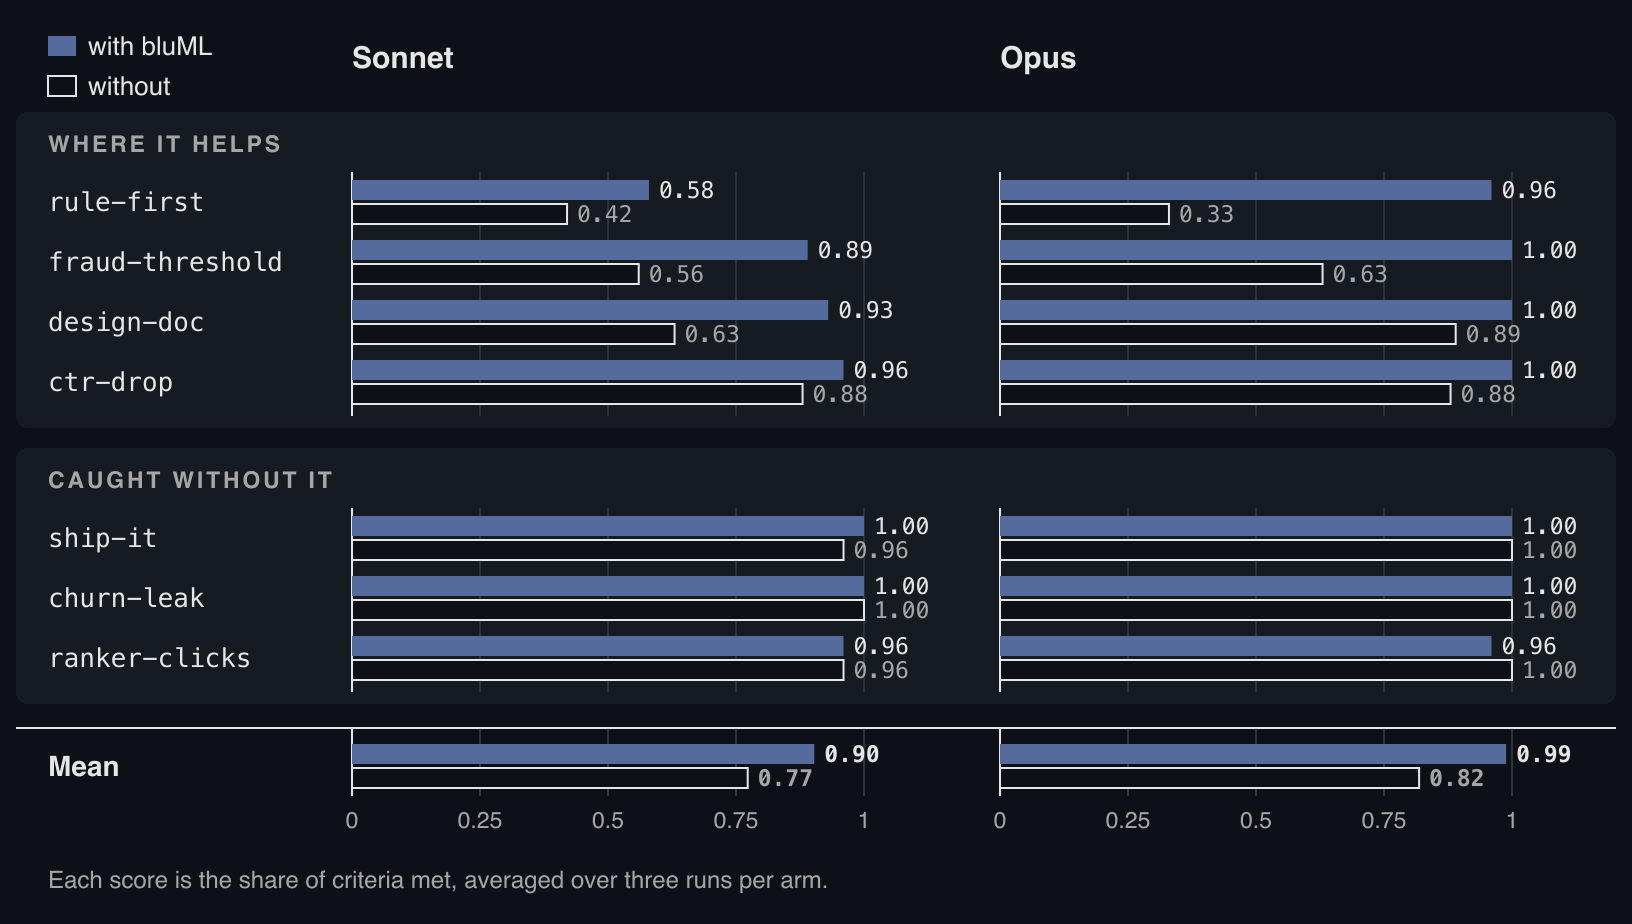
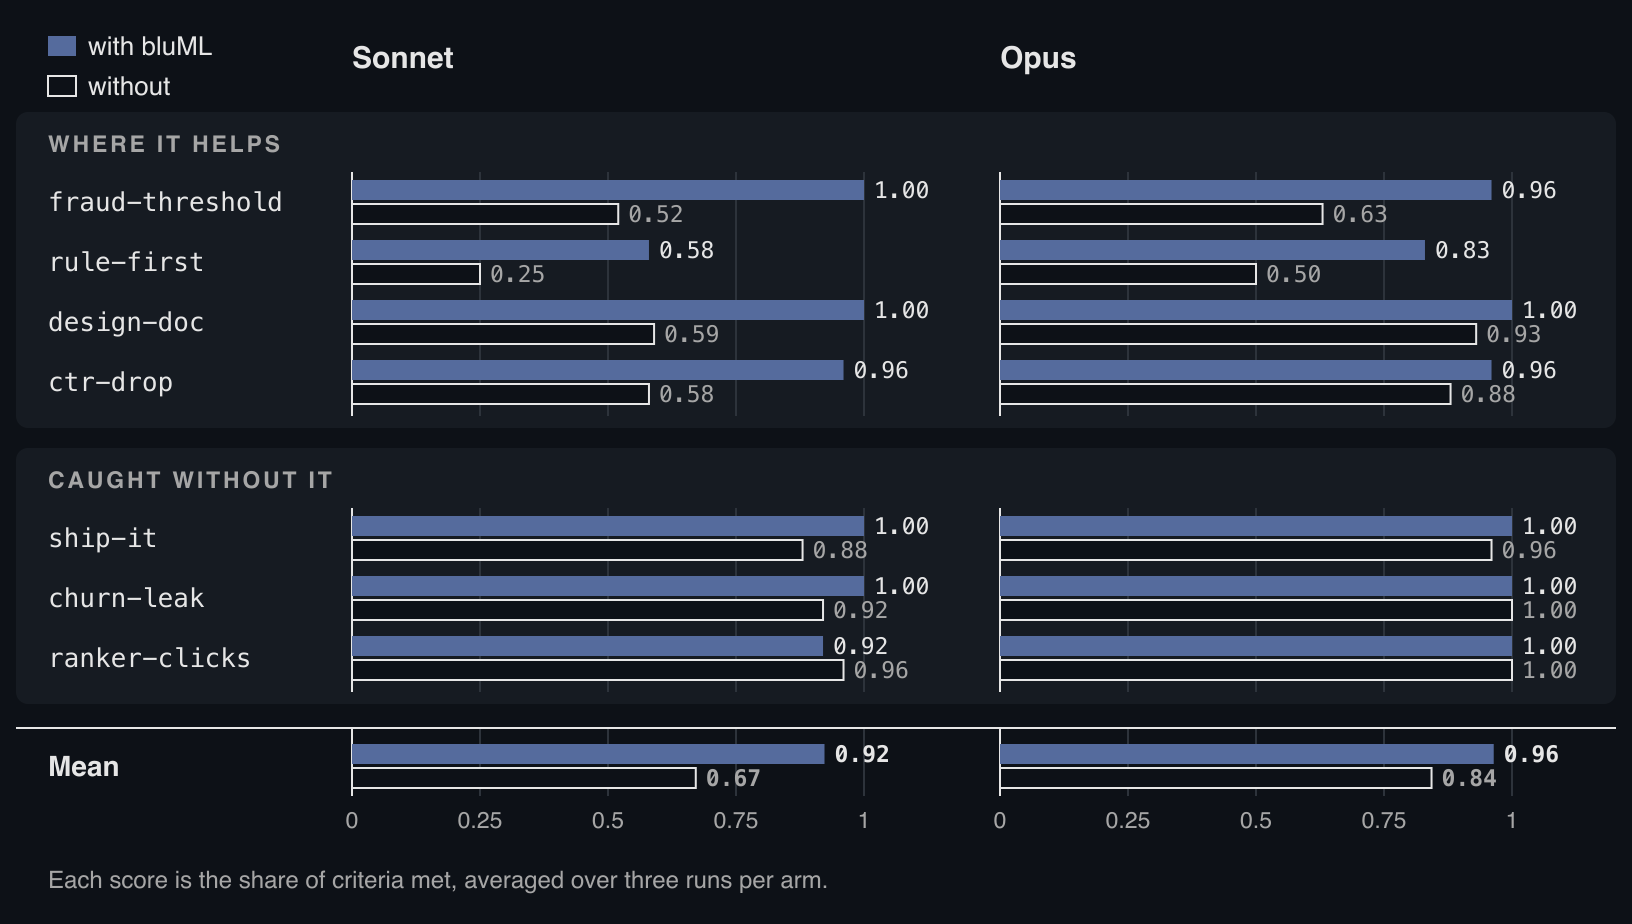
Report the evals on 0.2.0 and name the ranker's feedback loop in framing-models, as version 0.2.1

diff --git a/docs/evals.py b/docs/evals.py
@@ -27,13 +27,13 @@ MONO = "ui-monospace, SFMono-Regular, Menlo, Consolas, monospace"
 # %% The scores: the weighted share of criteria met, averaged over three runs per arm (evals/README.md, Results)
 MODELS = ("Sonnet", "Opus")
 SCORES = {  # case: (Sonnet with, without, Opus with, without)
-    "design-doc": (0.93, 0.63, 1.00, 0.89),
-    "rule-first": (0.58, 0.42, 0.96, 0.33),
-    "churn-leak": (1.00, 1.00, 1.00, 1.00),
-    "fraud-threshold": (0.89, 0.56, 1.00, 0.63),
-    "ranker-clicks": (0.96, 0.96, 0.96, 1.00),
-    "ship-it": (1.00, 0.96, 1.00, 1.00),
-    "ctr-drop": (0.96, 0.88, 1.00, 0.88),
+    "design-doc": (1.00, 0.59, 1.00, 0.93),
+    "rule-first": (0.58, 0.25, 0.83, 0.50),
+    "churn-leak": (1.00, 0.92, 1.00, 1.00),
+    "fraud-threshold": (1.00, 0.52, 0.96, 0.63),
+    "ranker-clicks": (0.92, 0.96, 1.00, 1.00),
+    "ship-it": (1.00, 0.88, 1.00, 0.96),
+    "ctr-drop": (0.96, 0.58, 0.96, 0.88),
 }
 
 
@@ -47,8 +47,8 @@ def gain(case):
     return sum(score(m, case, "with") - score(m, case, "without") for m in MODELS)
 
 
-# Cases where every arm scores 0.96 or more leave no room to show a gain (evals/README.md); each group is sorted by gain
-ceiling = [c for c in SCORES if all(score(m, c, arm) >= 0.96 for m in MODELS for arm in ("with", "without"))]
+# Cases both models already get mostly right without bluML (0.88 or more) leave little room to show a gain (evals/README.md); each group is sorted by gain
+ceiling = [c for c in SCORES if all(score(m, c, "without") >= 0.88 for m in MODELS)]
 GROUPS = [
     ("Where it helps", sorted((c for c in SCORES if c not in ceiling), key=gain, reverse=True)),
     ("Caught without it", sorted(ceiling, key=gain, reverse=True)),

diff --git a/evals/README.md b/evals/README.md
@@ -21,22 +21,26 @@ uv run evals/make_data.py            # writes the data, checking every trap is s
 claude plugin eval . --scaffold --allow-tools Bash Write Edit --model sonnet --judge-model sonnet -j 4
 ```
 
-`--scaffold` runs each case's `scaffold.sh` as you; it only copies files and installs numpy, pandas, scikit-learn and scipy into the run's workspace. Each case runs three times per arm by default. Reports land in `evals/results/`.
+`--scaffold` runs each case's `scaffold.sh` as you; it only copies files and installs numpy, pandas, scikit-learn and scipy into the run's workspace. Each case runs three times per arm by default. Reports land in `evals/results/`. Add `--keep-temp` to keep each run's trace, which shows the skills it loaded. In the JSON from `--json`, `costUsd` counts the agent only; the judge's cost is in each run's `judgeCostUsd`.
 
 ## Results
 
-Run on 19 October 2026 with Claude Code 2.1.303, on version 0.1.0 of the skills, before they took in mlkb's update of 20 October. The agent ran as `--model sonnet` or `--model opus`, the judge was Sonnet with three votes per criterion, and each case ran three times per arm. A score is the weighted share of criteria met, averaged over the three runs. A skill fired in every run with bluML. The runs in the table cost about $51, judge included.
+Run on 21 October 2026 with Claude Code 2.1.305, on version 0.2.0 of the skills, after they took in mlkb's update of 20 October. The agent ran as `--model sonnet` or `--model opus`, the judge was Sonnet with three votes per criterion, and each case ran three times per arm. A score is the weighted share of criteria met, averaged over the three runs. A skill fired in 40 of the 42 runs with bluML; Opus went without one once in `churn-leak` and once in `ranker-clicks`. The runs in the table cost about $50, judge included: $19 for Sonnet and $31 for Opus.
 
 | Case | Sonnet with | without | Δ | Opus with | without | Δ |
 |---|---|---|---|---|---|---|
-| `design-doc` | 0.93 | 0.63 | +0.30 | 1.00 | 0.89 | +0.11 |
-| `rule-first` | 0.58 | 0.42 | +0.17 | 0.96 | 0.33 | +0.62 |
-| `churn-leak` | 1.00 | 1.00 | 0.00 | 1.00 | 1.00 | 0.00 |
-| `fraud-threshold` | 0.89 | 0.56 | +0.33 | 1.00 | 0.63 | +0.37 |
-| `ranker-clicks` | 0.96 | 0.96 | 0.00 | 0.96 | 1.00 | −0.04 |
-| `ship-it` | 1.00 | 0.96 | +0.04 | 1.00 | 1.00 | 0.00 |
-| `ctr-drop` | 0.96 | 0.88 | +0.08 | 1.00 | 0.88 | +0.12 |
-| **Mean** | **0.90** | **0.77** | **+0.13** | **0.99** | **0.82** | **+0.17** |
+| `design-doc` | 1.00 | 0.59 | +0.41 | 1.00 | 0.93 | +0.07 |
+| `rule-first` | 0.58 | 0.25 | +0.33 | 0.83 | 0.50 | +0.33 |
+| `churn-leak` | 1.00 | 0.92 | +0.08 | 1.00 | 1.00 | 0.00 |
+| `fraud-threshold` | 1.00 | 0.52 | +0.48 | 0.96 | 0.63 | +0.33 |
+| `ranker-clicks` | 0.92 | 0.96 | −0.04 | 1.00 | 1.00 | 0.00 |
+| `ship-it` | 1.00 | 0.88 | +0.12 | 1.00 | 0.96 | +0.04 |
+| `ctr-drop` | 0.96 | 0.58 | +0.38 | 0.96 | 0.88 | +0.08 |
+| **Mean** | **0.92** | **0.67** | **+0.25** | **0.96** | **0.84** | **+0.12** |
+
+### Against version 0.1.0
+
+The first round, on 19 October with version 0.1.0, gave means of 0.90 with bluML and 0.77 without for Sonnet, and 0.99 and 0.82 for Opus. With bluML, the means moved by +0.02 and −0.03, within the noise of three runs. The arm without bluML moved as much (Sonnet's fell from 0.77 to 0.67), and that, not the skills, is most of the change in Δ. Compare the columns with bluML across rounds, not the Δ.
 
 ### Where bluML makes the difference
 
@@ -44,27 +48,44 @@ Runs that met each criterion, with bluML against without:
 
 | Criterion | Sonnet | Opus |
 |---|---|---|
-| `fraud-threshold`: compares the model with the rule slice by slice, new against existing customers | 2/3 vs 0/3 | 3/3 vs 0/3 |
-| `fraud-threshold`: notes that the model separates fraud much worse for new customers | 2/3 vs 0/3 | 3/3 vs 0/3 |
-| `rule-first`: weighs the model's gap over the keyword rule against the cost of running a model | 0/3 vs 0/3 | 3/3 vs 0/3 |
-| `rule-first`: states what each kind of misrouting costs and sets the operating point from it | 1/3 vs 0/3 | 3/3 vs 0/3 |
-| `design-doc`: puts numbers on the requirements and questions the brief's "updated live" | 3/3 vs 0/3 | 3/3 vs 2/3 |
-| `ctr-drop`: proposes a monitor by platform and app version that would have caught the drop | 3/3 vs 1/3 | 3/3 vs 3/3 |
-| `ctr-drop`: does not blame the holiday the day before the drop | 2/3 vs 2/3 | 3/3 vs 0/3 |
+| `fraud-threshold`: compares the model with the rule slice by slice, new against existing customers | 3/3 vs 0/3 | 3/3 vs 0/3 |
+| `fraud-threshold`: notes that the model separates fraud much worse for new customers | 3/3 vs 0/3 | 3/3 vs 0/3 |
+| `fraud-threshold`: names the review load as a decision for the fraud operations owner, with a fallback | 3/3 vs 0/3 | 2/3 vs 2/3 |
+| `rule-first`: measures the keyword rule on the same held-out tickets as the model | 3/3 vs 0/3 | 3/3 vs 2/3 |
+| `rule-first`: weighs the model's gap over the keyword rule against the cost of running a model | 1/3 vs 0/3 | 3/3 vs 1/3 |
+| `rule-first`: states what each kind of misrouting costs and sets the operating point from it | 0/3 vs 0/3 | 2/3 vs 0/3 |
+| `design-doc`: defines success with a product metric, guardrails and an online test design | 3/3 vs 0/3 | 3/3 vs 3/3 |
+| `design-doc`: lists the alternatives with reasons, and what the reviewers must decide | 3/3 vs 0/3 | 3/3 vs 3/3 |
+| `ctr-drop`: fixes the input or rolls back instead of retraining | 3/3 vs 1/3 | 3/3 vs 3/3 |
+| `ctr-drop`: proposes a monitor by platform and app version that would have caught the drop | 3/3 vs 0/3 | 3/3 vs 3/3 |
+| `ctr-drop`: does not blame the holiday the day before the drop | 2/3 vs 0/3 | 2/3 vs 0/3 |
 
 ### Where it makes none
 
-Without bluML, both models found the backfilled health score, split by time, evaluated churn at 60 calls a month, corrected clicks for position, traced the CTR drop to prices in cents from one Android release instead of retraining, and listed the launch's mismatches between training and serving. `churn-leak`, `ship-it` and `ranker-clicks` score 0.96 to 1.00 in both arms, so they leave no room to show a gain.
+Without bluML, both models found the backfilled health score, split by time, evaluated churn at 60 calls a month, corrected clicks for position, traced the CTR drop to prices in cents from one Android release, and listed the launch's mismatches between training and serving. `churn-leak`, `ship-it` and `ranker-clicks` score 0.88 to 1.00 in every arm, so they leave little room to show a gain.
+
+### The ranker, run again
+
+`ranker-clicks` is the one case where bluML scored lower, in both rounds: Opus on 19 October and Sonnet here. Each time the criterion lost was the feedback loop: ranking by yesterday's clicks keeps new articles low, so they never collect clicks. The advice on that loop is in `building-datasets`, and in this case the only skill that fires is `framing-models`. Version 0.2.1 adds a paragraph to `framing-models` that names the loop and points to `building-datasets`, and the case ran again, five times per arm, keeping each run's trace:
+
+| Model | with | without | Named the loop | A skill fired |
+|---|---|---|---|---|
+| Sonnet | 0.85 | 0.85 | 1/5 vs 1/5 | 4/5, `framing-models` only |
+| Opus | 1.00 | 0.88 | 5/5 vs 2/5 | 2/5, `framing-models` only |
+
+The earlier loss does not hold up: over the main round and this one, Sonnet named the loop in 2 of 8 runs with bluML and 3 of 8 without. The paragraph shows no effect either: no run followed it to `building-datasets`, and Sonnet named the loop no more often after it. Opus named the loop in every run with bluML, but in three of them no skill fired, so the paragraph cannot take the credit. The re-run cost $10.51, judge included.
 
 ### What it still misses
 
-- Sonnet with bluML never weighed the model's small gain over the keyword rule against the cost of running a model (0 of 3), and priced the misrouting in 1 of 3. Settling that is `framing-models`' main job, so it is the next thing to fix.
-- Opus with bluML missed the ranker's feedback loop in one run, the only criterion where the arm without bluML did better, by that one run.
+- Sonnet with bluML weighed the model's small gain over the keyword rule against the cost of running a model in 1 of 3 runs, and never priced the misrouting (0 of 3). Settling that is `framing-models`' main job, so it is still the next thing to fix.
+- When Opus with bluML concluded that the keyword rule should ship, it stopped there: it said how readiness would be confirmed on live tickets in 1 of 3 runs, against 3 of 3 without bluML. `framing-models` ends the outcome "The rule ships" with "stop", yet a rule put in front of people needs the same live check as a model.
+- In a request that runs from the data to a verdict, only `framing-models` loads. The advice in the other skills reaches the agent only if it asks for the next skill, and no run of the ranker re-run did.
+- Opus did not load the skills in 2 of 21 runs of the main round, and in 3 of 5 runs of the ranker re-run.
 
 ### How to read it
 
 - Three runs per arm is a small sample: one criterion in one run moves a case score by 0.04 to 0.08, so differences that small are noise.
 - The judge sees only the final reply, or the file the case asks for. An agent that did the work and left it out of its reply fails that criterion.
-- An earlier round exposed two graders that penalized correct work, and both were rewritten before this run. A fraud criterion that combined the slice breakdown with the new-customer finding was split in two, and the launch plan is now graded from `LAUNCH_PLAN.md`, where agents write it, instead of the reply.
-- The skills' examples were checked against the scenarios, and any that matched a planted trap was moved to another domain before this run.
+- The round of 19 October was preceded by one that exposed two graders that penalized correct work, and both were rewritten before it. A fraud criterion that combined the slice breakdown with the new-customer finding was split in two, and the launch plan is now graded from `LAUNCH_PLAN.md`, where agents write it, instead of the reply.
+- The skills' examples were checked against the scenarios before each round, and any that matched a planted trap was moved to another domain.
 - In trigger tests Haiku did not load the skills, so it is not evaluated here.

diff --git a/README.md b/README.md
@@ -56,7 +56,7 @@ Four skills carry tested Python checks, run by the agent rather than rewritten e
 Seven requests with traps planted in synthetic data, each run three times with bluML and three times without, and scored by an LLM judge against five or six criteria. A score is the weighted share of criteria met. Method, criteria and caveats: [evals/](evals/README.md).
 
 <p align="center">
-  <img src="docs/evals-light.png" width="816" alt="Paired bars of the eval scores with bluML and without it, for Sonnet and Opus. Where bluML helps: rule-first, fraud-threshold, design-doc and ctr-drop. Caught without it: ship-it, churn-leak and ranker-clicks, at 0.96 to 1.00 in every arm. Mean: Sonnet 0.77 without and 0.90 with; Opus 0.82 without and 0.99 with. The table below has every score.">
+  <img src="docs/evals-light.png" width="816" alt="Paired bars of the eval scores with bluML and without it, for Sonnet and Opus. Where bluML helps: rule-first, fraud-threshold, design-doc and ctr-drop. Caught without it: ship-it, churn-leak and ranker-clicks, at 0.88 to 1.00 in every arm. Mean: Sonnet 0.67 without and 0.92 with; Opus 0.84 without and 0.96 with. The table below has every score.">
 </p>
 
 <details>
@@ -64,18 +64,18 @@ Seven requests with traps planted in synthetic data, each run three times with b
 
 | Case | Sonnet with | without | Opus with | without |
 |---|---|---|---|---|
-| `design-doc` | 0.93 | 0.63 | 1.00 | 0.89 |
-| `rule-first` | 0.58 | 0.42 | 0.96 | 0.33 |
-| `churn-leak` | 1.00 | 1.00 | 1.00 | 1.00 |
-| `fraud-threshold` | 0.89 | 0.56 | 1.00 | 0.63 |
-| `ranker-clicks` | 0.96 | 0.96 | 0.96 | 1.00 |
-| `ship-it` | 1.00 | 0.96 | 1.00 | 1.00 |
-| `ctr-drop` | 0.96 | 0.88 | 1.00 | 0.88 |
-| **Mean** | **0.90** | **0.77** | **0.99** | **0.82** |
+| `design-doc` | 1.00 | 0.59 | 1.00 | 0.93 |
+| `rule-first` | 0.58 | 0.25 | 0.83 | 0.50 |
+| `churn-leak` | 1.00 | 0.92 | 1.00 | 1.00 |
+| `fraud-threshold` | 1.00 | 0.52 | 0.96 | 0.63 |
+| `ranker-clicks` | 0.92 | 0.96 | 1.00 | 1.00 |
+| `ship-it` | 1.00 | 0.88 | 1.00 | 0.96 |
+| `ctr-drop` | 0.96 | 0.58 | 0.96 | 0.88 |
+| **Mean** | **0.92** | **0.67** | **0.96** | **0.84** |
 
 </details>
 
-Without bluML, both models already catch the textbook traps: a backfilled column, position bias in clicks, prices sent in cents. What they skip is the product reasoning around the model. Neither compared the fraud model with the rule slice by slice, and neither noticed that it ranks new customers far worse (0 of 6 runs; 5 of 6 with bluML). Opus never weighed a ticket-routing model against the keyword rule that nearly matches it (0 of 3; 3 of 3), and none of Sonnet's design docs both put numbers on the requirements and questioned the brief's "updated live" (0 of 3; 3 of 3). One gap remains: Sonnet with bluML still skips the rule-against-model weighing in every run.
+Without bluML, both models already catch the textbook traps: a backfilled column, position bias in clicks, prices sent in cents. What they skip is the product reasoning around the model. Neither compared the fraud model with the rule slice by slice, and neither noticed that it ranks new customers far worse (0 of 6 runs; 6 of 6 with bluML). Sonnet never scored the keyword rule on the same held-out tickets as its ticket-routing model (0 of 3; 3 of 3), Opus seldom weighed the model against that rule, which nearly matches it (1 of 3; 3 of 3), and none of Sonnet's design docs set out a product metric, guardrails and an online test (0 of 3; 3 of 3). One gap remains: Sonnet with bluML still seldom weighs the model's small gain over the rule against the cost of running it (1 of 3), and never prices a misrouted ticket.
 
 ## Install
 

diff --git a/skills/framing-models/SKILL.md b/skills/framing-models/SKILL.md
@@ -47,6 +47,8 @@ Every product already decides somehow: by hand, with a rule, with a formula, or 
 
 A rule that ships today is also the fallback when the model fails, and the logging that collects the labels the model will need. Written as labelling functions, the same rules can produce the first labels (`building-datasets`, reference/labels.md).
 
+When the current system decides what is shown or acted on (the order of a list, which payments are reviewed, which accounts are called), it also wrote the labels. What it never showed or acted on has no outcome, and what it favours collects more evidence each day, so it stays favoured. A model trained on those logs inherits the loop, and scoring on the same logs flatters the system that made them. Name the loop under "What the product put in the labels" in `MODEL.md`, keep or start a slice of random traffic, and read `building-datasets` step 6 before training.
+
 ## 4. Write the metric ladder
 
 Connect the number training will move to the number the business cares about:
